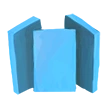
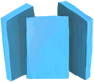
Finished Master Reality!

diff --git a/StS1DeprecatedThingsCode/Powers/MasterRealityPower.cs b/StS1DeprecatedThingsCode/Powers/MasterRealityPower.cs
@@ -18,8 +18,7 @@ public sealed class MasterRealityPower : CustomPowerModel
 
     public override PowerStackType StackType => PowerStackType.None;
 
-    // public override string? CustomPackedIconPath { get; } =
-    //     "StS1DeprecatedThings/assets/PowerIcons/Icon_MasterReality.png";
+    public override string? CustomPackedIconPath => "StS1DeprecatedThings/assets/PowerIcons/Icon_MasterReality.png";
 
     public override async Task AfterCardGeneratedForCombat(CardModel card, bool addedByPlayer)
     {
